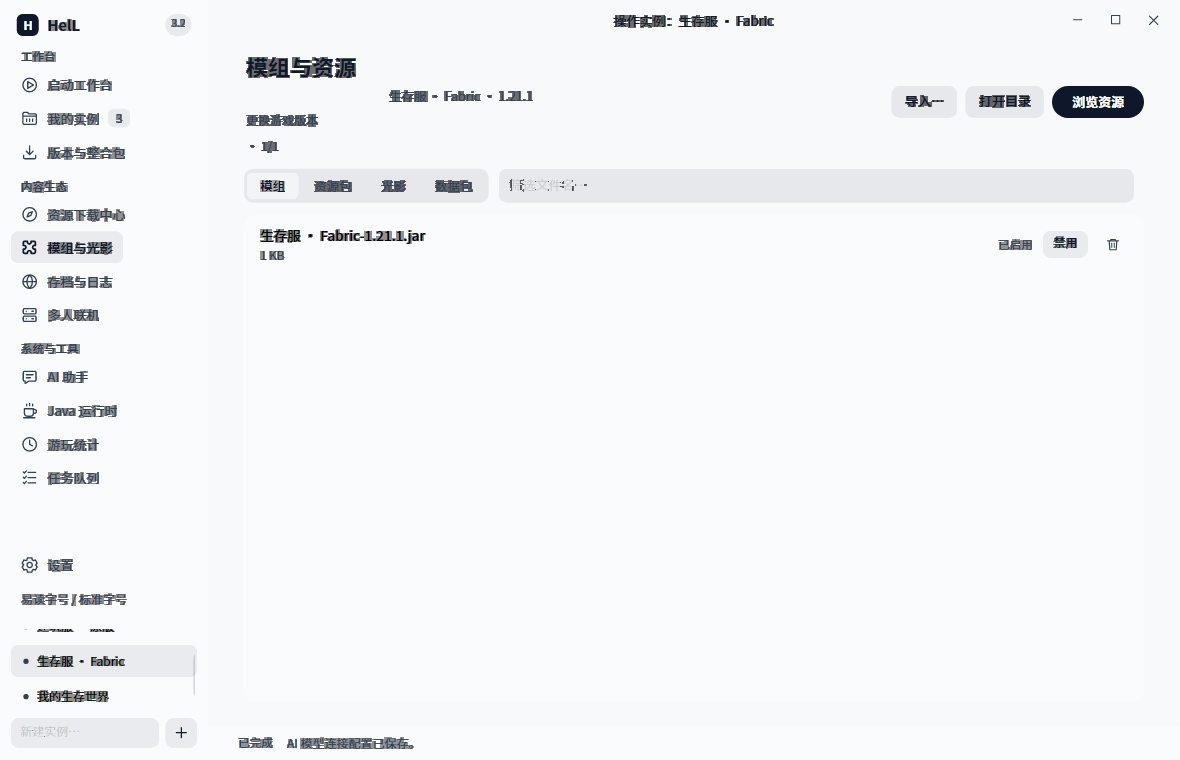
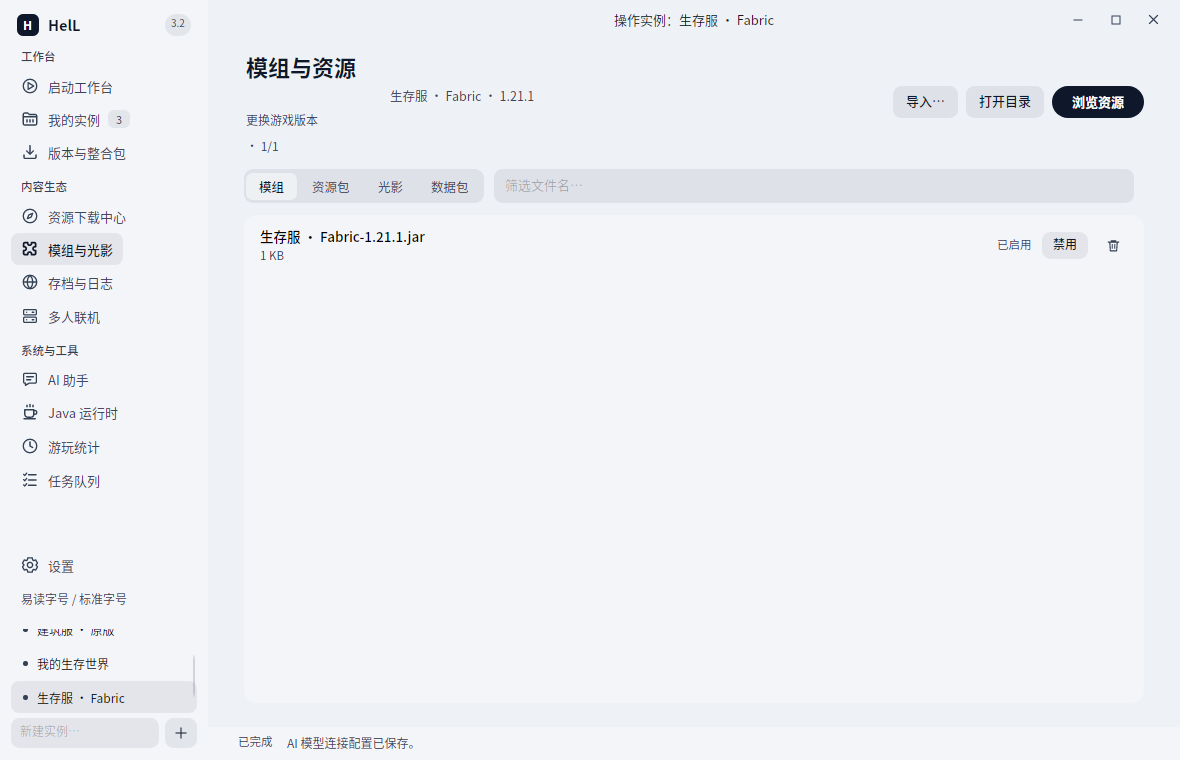
fix(ui): keep appearance hints clear in small windows

diff --git a/docs/chinese-ux-2026-11-23.md b/docs/chinese-ux-2026-11-23.md
@@ -5,10 +5,10 @@
 1. **实例与版本内容**：原模组、存档和服务器管理读取实例根目录，完全隔离版本的资源无法显示。现在按所选版本和隔离设置读取，页面标明实例、版本并提供切换入口。切回实例保留本次会话选择的版本；主页数量与管理页一致。
 2. **资源读写与撤销**：禁用、删除、备份和恢复使用捕获的目录。部分隔离模式使用预期的共享目录，拒绝指向其他位置的链接。已有非空版本目录按游戏实际行为保留。服务器撤销恢复原目录，但保持当前页面实例；原实例改名或目录消失时拒绝重建旧目录。非模组列表显示文件名，不再把绝对路径作为名称。
 3. **设置与退出**：Desktop/Mobile 外观先提交配置再更新界面；失败保持原内存、版本号与主题。Desktop 未保存网络设置退出前提醒，拒绝退出后恢复正常任务调度。实例选择保存失败时侧栏恢复原选中项。
-4. **Android AI 返回**：首个返回由系统收起键盘，随后返回关闭连接设置并留在对话，草稿保留且不自动再次弹出键盘。原生验收脚本新增实测步骤和截图。TalkBack 安装状态单独记录，实际语音播报仍未认证。
+4. **Android AI 返回**：首个返回由系统收起键盘，随后返回关闭连接设置并留在对话，草稿保留且不自动再次弹出键盘。新增原生验收已在一次性 Android 模拟器通过，150% / 200% 系统字体、重启恢复也通过。模拟器安装了 TalkBack，但实际语音播报仍未验证。
 5. **真实试玩安装启动**：隔离目录使用官方源下载 Minecraft 1.21.1，约 790 MB / 3890 个文件，完成校验后启动 Java 21。已观察真实首次欢迎页与试玩主菜单，进程最终正常退出（0）。这证明真实客户端可启动，不代表进入世界、完整玩家账号授权或所有加载器安装。
 
-微软首次登录由用户明确选择稍后补验；本轮没有读取或复用真实账号凭据。Android 本机 `adb devices` 无设备且无模拟器，新增原生检查在 PR CI 的一次性模拟器执行；本地 Mobile preview 只作为桌面宿主证据。
+微软首次登录由用户明确选择稍后补验；本轮没有读取或复用真实账号凭据。Android 本机 `adb devices` 无设备且无模拟器；原生证据来自 PR CI 的一次性模拟器，本地 Mobile preview 只作为桌面宿主证据。
 
 ## 回归与证据
 
@@ -18,21 +18,26 @@
 
 ## 实例与版本
 
-模组页标明当前实例与 Minecraft 版本，并提供“更换游戏版本”。切换实例后列表、操作目标与首页计数使用相同目录。下图使用验收夹具，不是真实玩家资源。
+模组页标明当前实例与 Minecraft 版本，并提供“更换游戏版本”。切换实例后列表、操作目标与首页计数使用相同目录。下图来自提交 `d4827cb` 的 Linux CI 渲染，使用验收夹具，不是真实玩家资源。
 
 ![模组页展示当前实例、游戏版本和版本切换入口](images/chinese-ux-20261123/instance-version.png)
 
 ## 保存失败
 
-外观写入失败时保持原主题和透明度，中文提示说明状态与重试方向。本页两张 Desktop 图片由 RenderTargetBitmap 捕获，宿主渲染存在文字重影，不能据此认证屏幕文字清晰度。
-
-![外观保存失败后保持原设置并显示中文重试提示](images/chinese-ux-20261123/settings-save-failed.png)
+外观写入失败时保持原主题和透明度，显示“外观保存失败，已保留原设置。请检查数据目录后重试。”小窗口中，色调和通透度说明各占一行，避免被选项按钮挤住。本机 `settings-save-failed.png` 原始截图保留在测试目录；因宿主渲染文字重影，不作为视觉交付图。
 
 ## 手机对话与返回
 
 连接设置返回对话后保留内容与输入草稿。图为桌面宿主的 Mobile preview，回答文本来自明确标注的离线布局回归，不代表真实模型调用，也不能替代 Android 键盘或 TalkBack 验收。
 
 <img src="images/chinese-ux-20261123/mobile-ai-conversation.png" alt="Mobile 中文对话与底部输入区域" width="390" />
+
+下图为 `d4827cb` 的原生 Android 模拟器截图：编辑地址时打开系统键盘；按返回收起键盘，再按一次回到对话，输入区重新可见。
+
+<img src="images/chinese-ux-20261123/android-ai-keyboard.png" alt="原生 Android 编辑 AI 地址时显示系统键盘" width="320" />
+<img src="images/chinese-ux-20261123/android-ai-return.png" alt="再次按系统返回后回到 AI 对话且键盘保持关闭" width="320" />
+
+原生证据见 [前端验收运行](https://github.com/addxiaoyi/HELCL/actions/runs/45207296844) 的 `frontend-android-45207296844` 产物：`ai-native-acceptance.json` 中键盘与返回均为 `true`，`talkbackSpeechVerified` 为 `false`；`acceptance.json` 记录字体倍率 1.5 与 2、实例和凭据跨进程恢复。此结果不等于物理设备或读屏语音验收。
 
 ## 真实游戏启动
 
